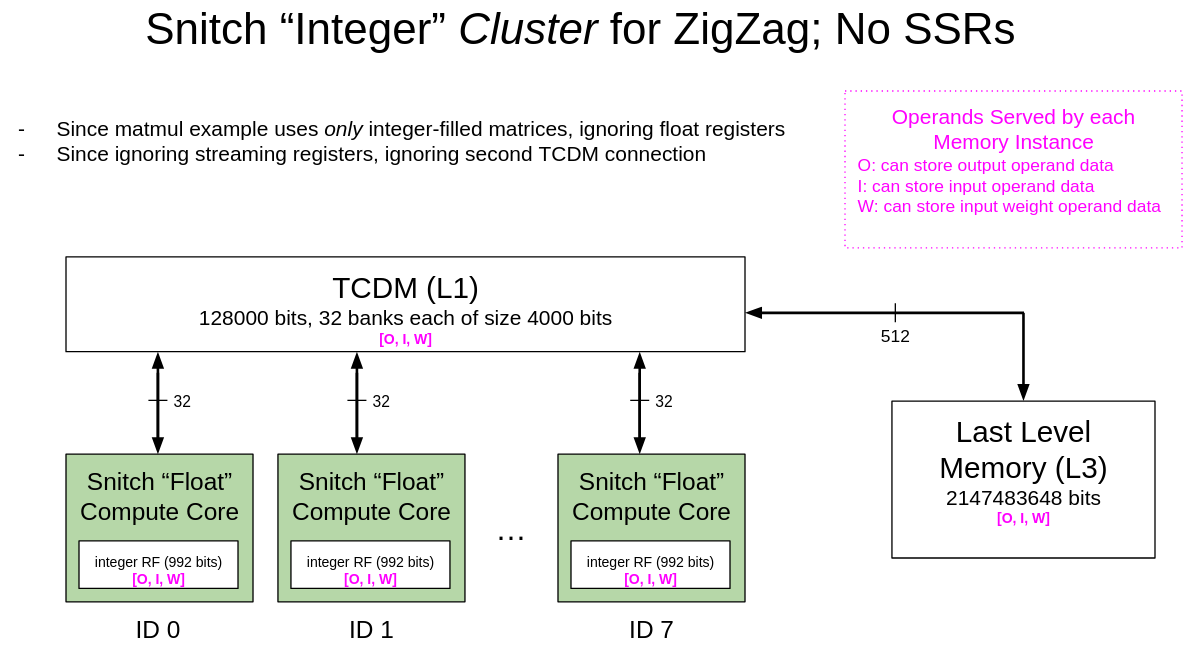
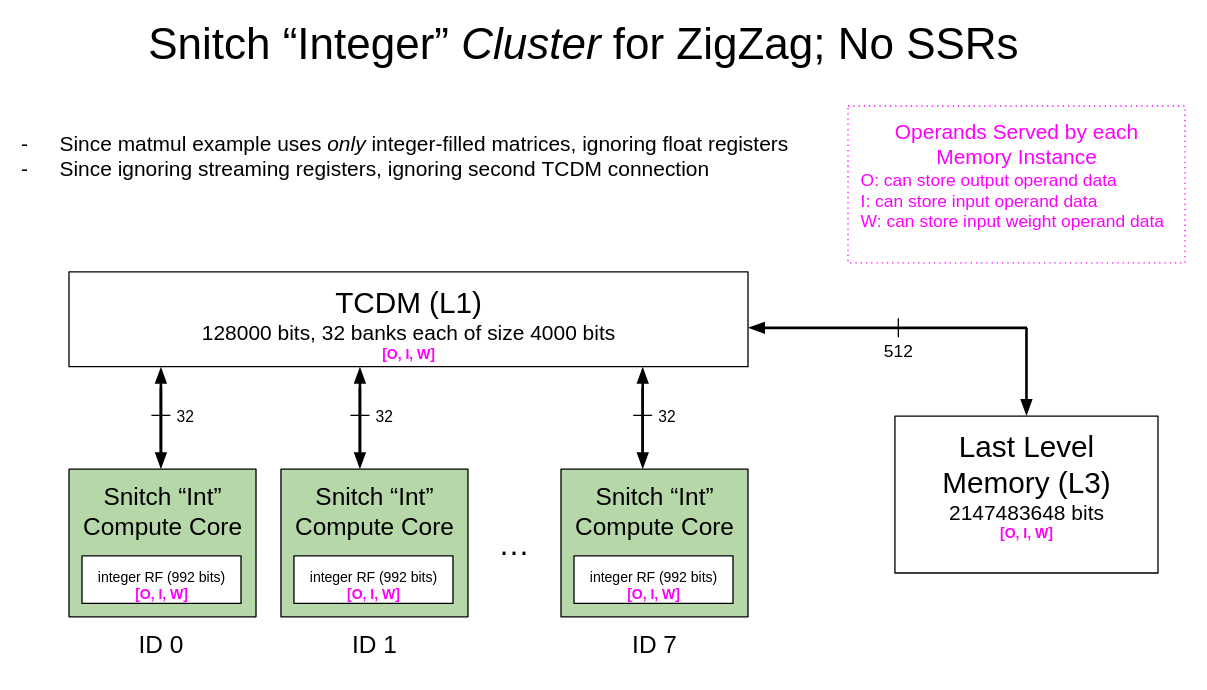
fix diagrams

diff --git a/modeling-snitch-with-zigzag.md b/modeling-snitch-with-zigzag.md
@@ -112,45 +112,6 @@ Spatial Loops
 
 ### IV. More Example Runs
 
-#### dispatch_1_matmul_transpose_b_1x1200x400_f64
-
-Commands Run:
-
-```
-python main_zigzag_integration.py --model=zigzag/inputs/workload/dispatch_1_matmul_transpose_b_1x1200x400_f64.yaml --mapping=zigzag/inputs/mapping/empty-mapping.yaml --accelerator=zigzag/inputs/hardware/snitch-cluster-only-floats-no-ssrs.yaml
-```
-
-```
-cat outputs/snitch-cluster-only-floats-no-ssrs-dispatch_1_matmul_transpose_b_1x1200x400_f64/loop_ordering.txt 
-```
-
-Relevant Output:
-```
-Loop ordering for dispatch_1_matmul_transpose_b_1x1200x400_f64
-=============================================================================================
-Temporal Loops                      O                  W                  I                  
-=============================================================================================
-for C in [0, 5):                    l1                 l3                 l1                 
----------------------------------------------------------------------------------------------
-  for B in [0, 16):                 l1                 l3                 l1                 
----------------------------------------------------------------------------------------------
-    for C in [0, 5):                rf_f0_thru_f31     l1                 l1                 
----------------------------------------------------------------------------------------------
-      for C in [0, 6):              rf_f0_thru_f31     l1                 rf_f0_thru_f31     
----------------------------------------------------------------------------------------------
-        for B in [0, 5):            rf_f0_thru_f31     l1                 rf_f0_thru_f31     
----------------------------------------------------------------------------------------------
-          for B in [0, 5):          rf_f0_thru_f31     l1                 rf_f0_thru_f31     
----------------------------------------------------------------------------------------------
-=============================================================================================
-Spatial Loops                                                                                
-=============================================================================================
-            parfor C in [0, 8):                                                              
----------------------------------------------------------------------------------------------
-            parfor A in [0, 1):                                                              
----------------------------------------------------------------------------------------------
-```
-
 #### matmul 512 x 512
 
 Commands Run:
@@ -225,5 +186,47 @@ Spatial Loops
 ===========================================================================================
             parfor A in [0, 8):                                                            
 -------------------------------------------------------------------------------------------
+```
+
+#### dispatch_1_matmul_transpose_b_1x1200x400_f64
+
+![image-20240626163738939](snitch_cluster_only_floats_quidditch_TCDM.png)
+
+Commands Run:
+
+```
+python main_zigzag_integration.py --model=zigzag/inputs/workload/dispatch_1_matmul_transpose_b_1x1200x400_f64.yaml --mapping=zigzag/inputs/mapping/empty-mapping.yaml --accelerator=zigzag/inputs/hardware/snitch-cluster-only-floats-no-ssrs.yaml
+```
+
+```
+cat outputs/snitch-cluster-only-floats-no-ssrs-dispatch_1_matmul_transpose_b_1x1200x400_f64/loop_ordering.txt 
+```
+
+Relevant Output:
+
+```
+Loop ordering for dispatch_1_matmul_transpose_b_1x1200x400_f64
+=============================================================================================
+Temporal Loops                      O                  W                  I                  
+=============================================================================================
+for C in [0, 5):                    l1                 l3                 l1                 
+---------------------------------------------------------------------------------------------
+  for B in [0, 16):                 l1                 l3                 l1                 
+---------------------------------------------------------------------------------------------
+    for C in [0, 5):                rf_f0_thru_f31     l1                 l1                 
+---------------------------------------------------------------------------------------------
+      for C in [0, 6):              rf_f0_thru_f31     l1                 rf_f0_thru_f31     
+---------------------------------------------------------------------------------------------
+        for B in [0, 5):            rf_f0_thru_f31     l1                 rf_f0_thru_f31     
+---------------------------------------------------------------------------------------------
+          for B in [0, 5):          rf_f0_thru_f31     l1                 rf_f0_thru_f31     
+---------------------------------------------------------------------------------------------
+=============================================================================================
+Spatial Loops                                                                                
+=============================================================================================
+            parfor C in [0, 8):                                                              
+---------------------------------------------------------------------------------------------
+            parfor A in [0, 1):                                                              
+---------------------------------------------------------------------------------------------
 ```
 
